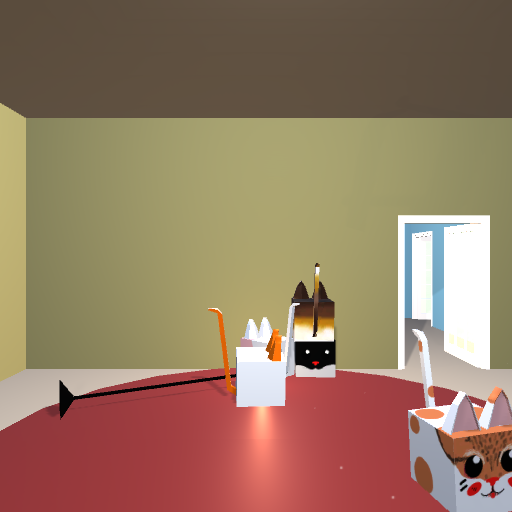
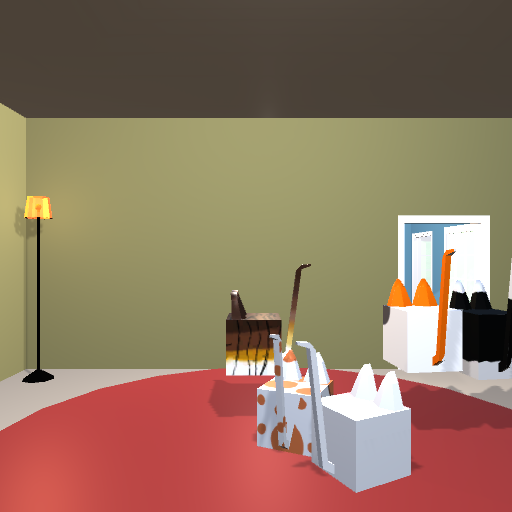
Win circle
Now victory image appears and can be taken away with escape

Changed region(s): [[0.0, 0.3438, 1.0, 1.0]]

diff --git a/Assets/Scripts/WinCircleController.cs b/Assets/Scripts/WinCircleController.cs
@@ -8,9 +8,13 @@ public class WinCircleController : MonoBehaviour
     private int allKittensCount_Int;
     private bool countKitten_B = true;
 
+    public GameObject victoryImage_GO;
+
     //Count for kittens in circle area.
     private int count_Int = 0;
     public static bool cameraButtonPushed_B = false;
+    private bool victory_B = false;
+    private bool showVictoryImage_B = true;
 
     // Start is called before the first frame update
     void Start()
@@ -22,6 +26,7 @@ public class WinCircleController : MonoBehaviour
     void Update()
     {
         WinConditionChecker();
+        HideVictoryImageChecker();
     }
 
     private void CountAllKittens()
@@ -58,10 +63,29 @@ public class WinCircleController : MonoBehaviour
     //If all kittens inside circle and camera button pushed then win.
     private void WinConditionChecker()
     {
-        if(count_Int == allKittensCount_Int*2 && (cameraButtonPushed_B == true || Input.GetKey(KeyCode.T)))
+        if(count_Int == allKittensCount_Int*2 && Input.GetKey(KeyCode.T))
         {
-
-            Debug.Log("Win");
+            //Debug.Log("Win");
+            victory_B = true;
+            ShowVictoryImage();
         }            
     }
+
+    private void ShowVictoryImage()
+    {
+        if(victory_B == true && showVictoryImage_B == true)
+        {
+            victoryImage_GO.SetActive(true);
+        }        
+    }
+
+    private void HideVictoryImageChecker()
+    {
+        if(Input.GetKey(KeyCode.Escape))
+        {
+            showVictoryImage_B = false;
+            victoryImage_GO.SetActive(false);
+        }
+    }
+    
 }
